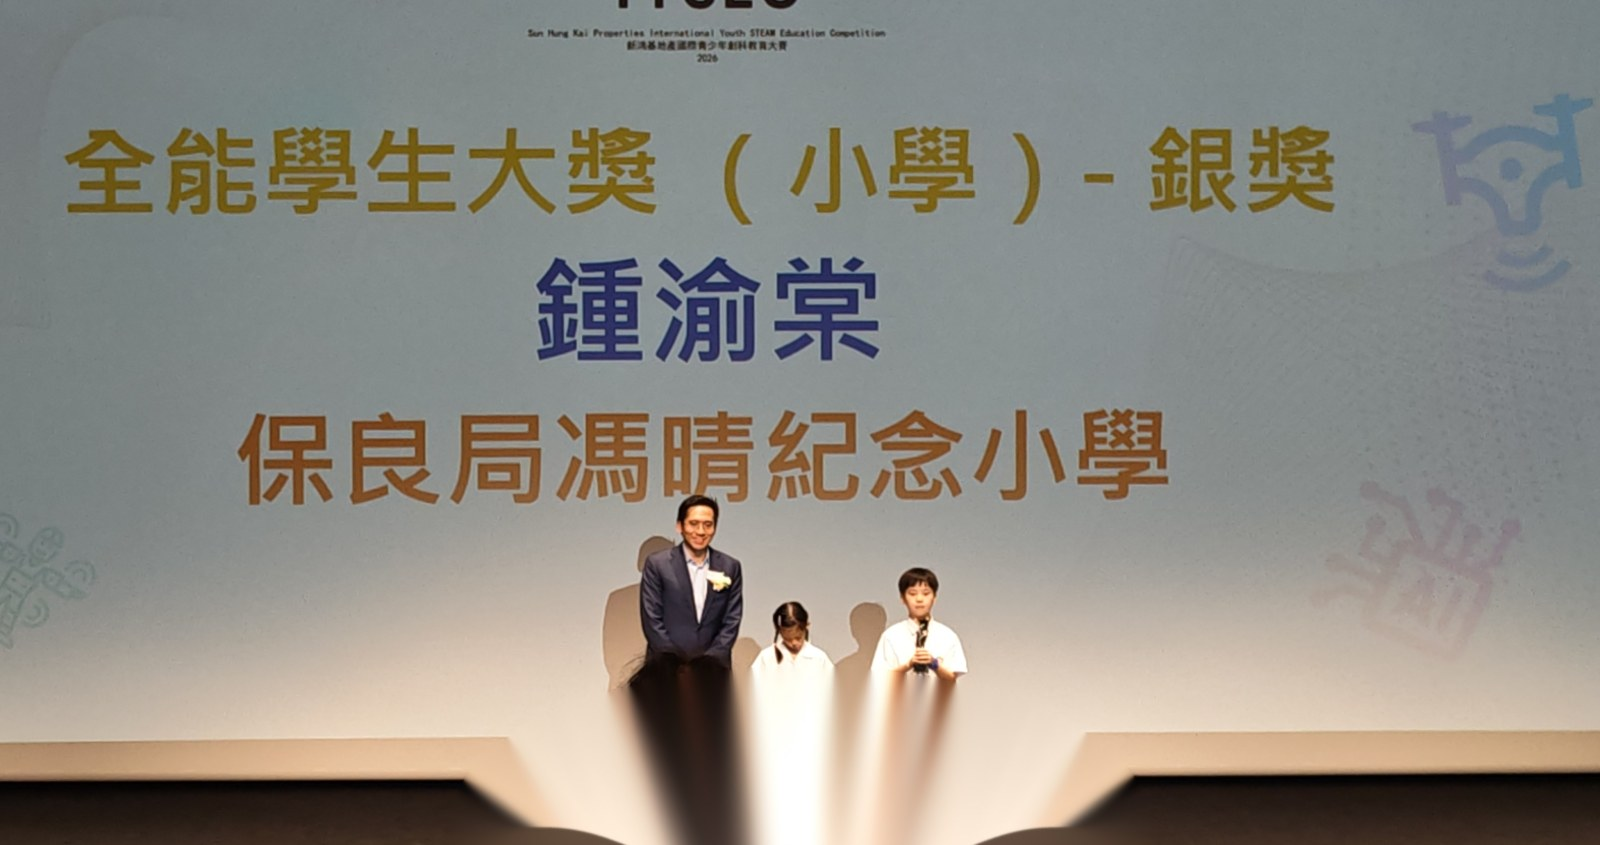
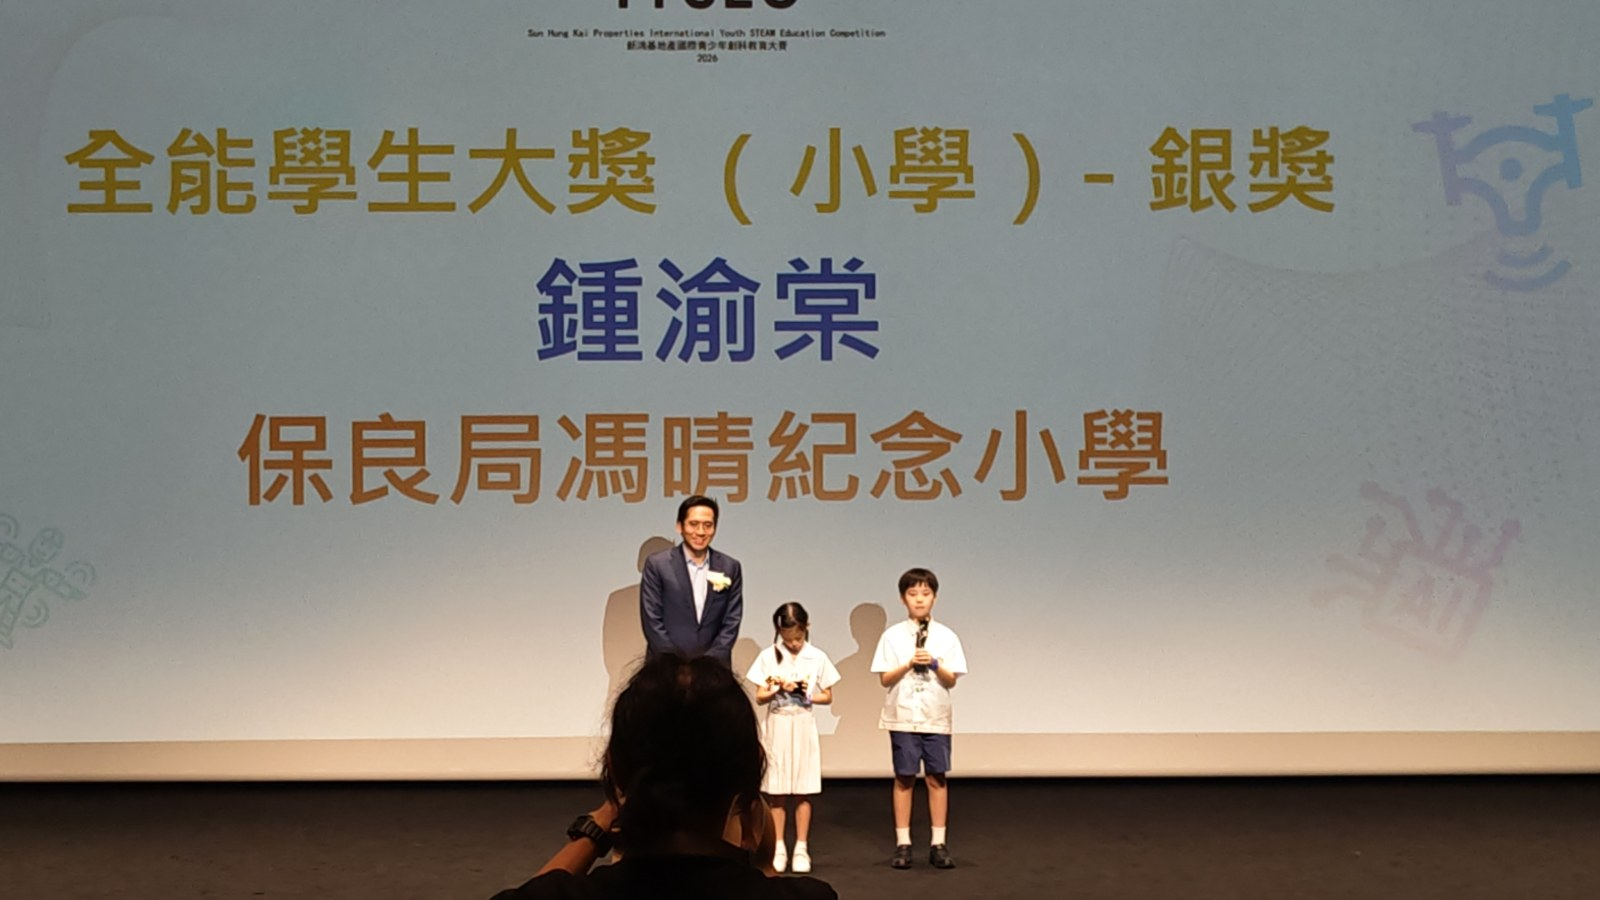
Revert scary inpaint edits; restore original ceremony photos
Keep photographer in frame — no AI remove on award stage shots.

diff --git a/src/data/awards.ts b/src/data/awards.ts
@@ -47,7 +47,7 @@ export const awards: Award[] = [
         file: './photos/ceremony/03-silver-no-text.jpg',
         role: 'moment',
         en: 'Silver award group moment',
-        zh: '銀獎頒獎合影',
+        zh: '銀獎台上合影',
       },
     ],
   },
